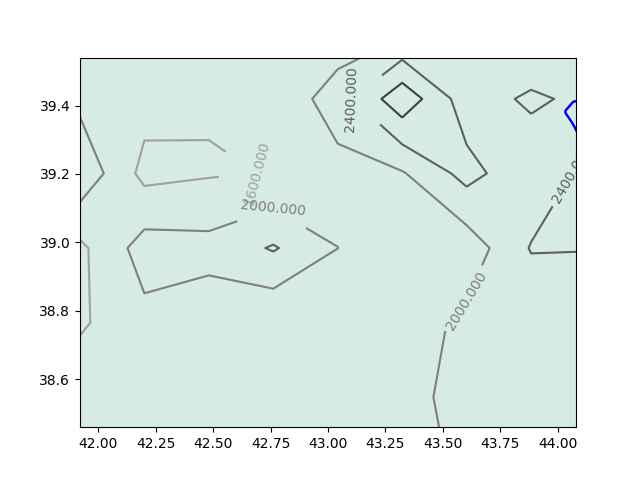
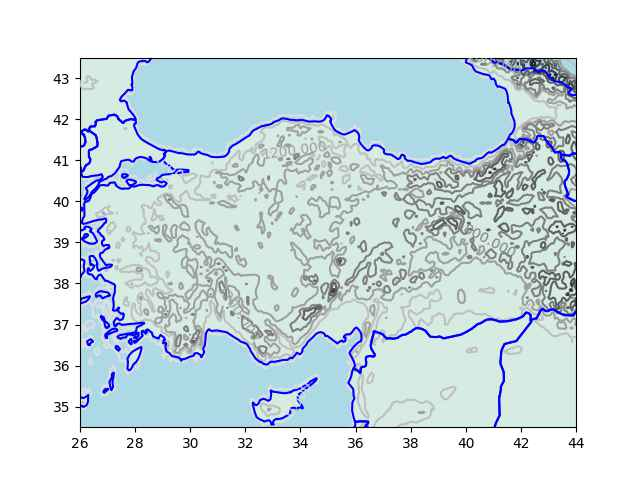
-

diff --git a/sk/2023/07/basit-haritalama-paketi.html b/sk/2023/07/basit-haritalama-paketi.html
@@ -228,13 +228,20 @@ grafiğin ax, fig objeleri farklı çağrılara geçilebilir,</p>
 <p>Dağlar, Yükseklik Verisi</p>
 
 <div class="codehilite">
-<pre><span></span><code><span class="n">clat</span><span class="p">,</span><span class="n">clon</span> <span class="o">=</span> <span class="mi">39</span><span class="p">,</span> <span class="mi">43</span><span class="p">;</span> <span class="n">zoom</span> <span class="o">=</span> <span class="mf">0.12</span>
+<pre><span></span><code><span class="n">clat</span><span class="p">,</span><span class="n">clon</span><span class="o">=</span><span class="mi">39</span><span class="p">,</span> <span class="mi">35</span><span class="p">;</span> <span class="n">zoom</span> <span class="o">=</span> <span class="mf">1.0</span>
 <span class="n">fig</span><span class="p">,</span> <span class="n">ax</span> <span class="o">=</span> <span class="n">plt</span><span class="o">.</span><span class="n">subplots</span><span class="p">()</span> 
 <span class="n">sm</span><span class="o">.</span><span class="n">plot_countries</span><span class="p">(</span><span class="n">clat</span><span class="p">,</span><span class="n">clon</span><span class="p">,</span><span class="n">zoom</span><span class="o">=</span><span class="n">zoom</span><span class="p">,</span><span class="n">ax</span><span class="o">=</span><span class="n">ax</span><span class="p">)</span>
 <span class="n">sm</span><span class="o">.</span><span class="n">plot_elevation</span><span class="p">(</span><span class="n">clat</span><span class="p">,</span><span class="n">clon</span><span class="p">,</span><span class="n">zoom</span><span class="o">=</span><span class="n">zoom</span><span class="p">,</span><span class="n">ax</span><span class="o">=</span><span class="n">ax</span><span class="p">)</span>
 <span class="n">plt</span><span class="o">.</span><span class="n">savefig</span><span class="p">(</span><span class="s1">&#39;sm_10.jpg&#39;</span><span class="p">,</span><span class="n">quality</span><span class="o">=</span><span class="mi">40</span><span class="p">)</span>
 </code></pre>
 </div>
+
+<div class="codehilite">
+<pre><span></span><code>dist 2000.0
+</code></pre>
+</div>
+
+<p><img src="sm_10.jpg" alt="" /></p>
 
 <p>Sonuç kontur çizgileri olarak gösterilecektir.</p>
 

diff --git a/sk/2023/07/basit-haritalama-paketi.md b/sk/2023/07/basit-haritalama-paketi.md
@@ -181,12 +181,19 @@ plt.savefig('sm_09.jpg',quality=40)
 Dağlar, Yükseklik Verisi
 
 ```python
-clat,clon = 39, 43; zoom = 0.12
+clat,clon=39, 35; zoom = 1.0
 fig, ax = plt.subplots() 
 sm.plot_countries(clat,clon,zoom=zoom,ax=ax)
 sm.plot_elevation(clat,clon,zoom=zoom,ax=ax)
 plt.savefig('sm_10.jpg',quality=40)
 ```
+
+```text
+dist 2000.0
+```
+![](sm_10.jpg)
+
+
 
 Sonuç kontur çizgileri olarak gösterilecektir.
 
